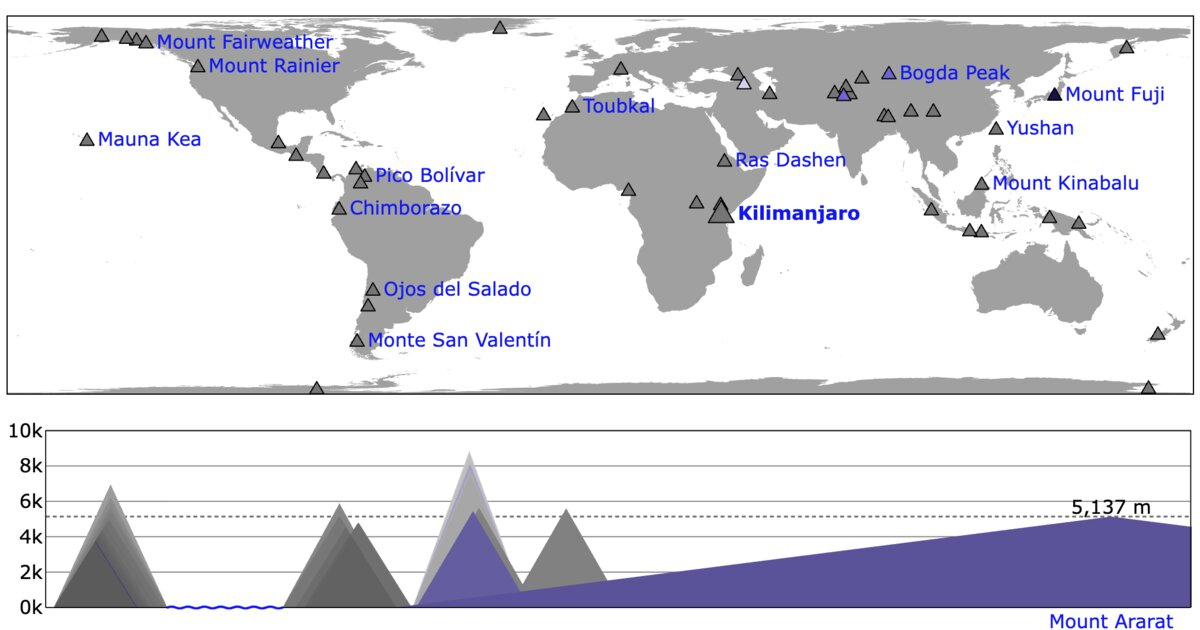
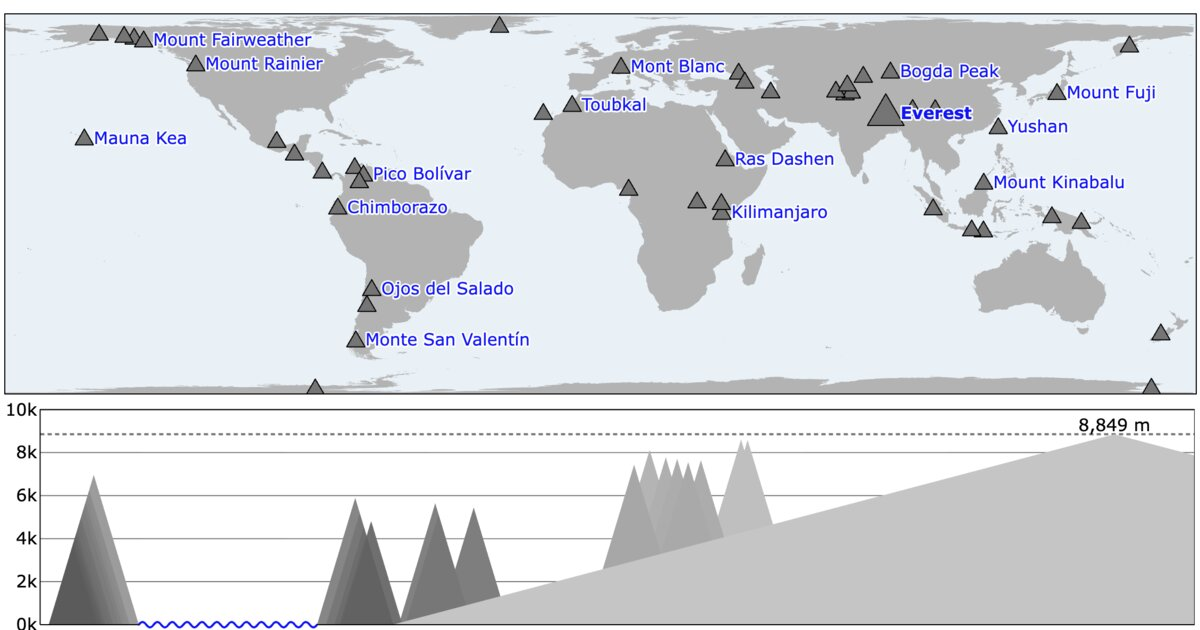
chart shorter and opengraph image of everest

diff --git a/coldle.css b/coldle.css
@@ -138,9 +138,9 @@ ol {
   font-weight:bold
 }
 #chart{
-  aspect-ratio: 3.142;
-  max-height:20vh;
-  min-height:15vh;
+  aspect-ratio: 4;
+  max-height:15vh;
+  min-height:10vh;
 }
 #chart line{
   stroke:gray
